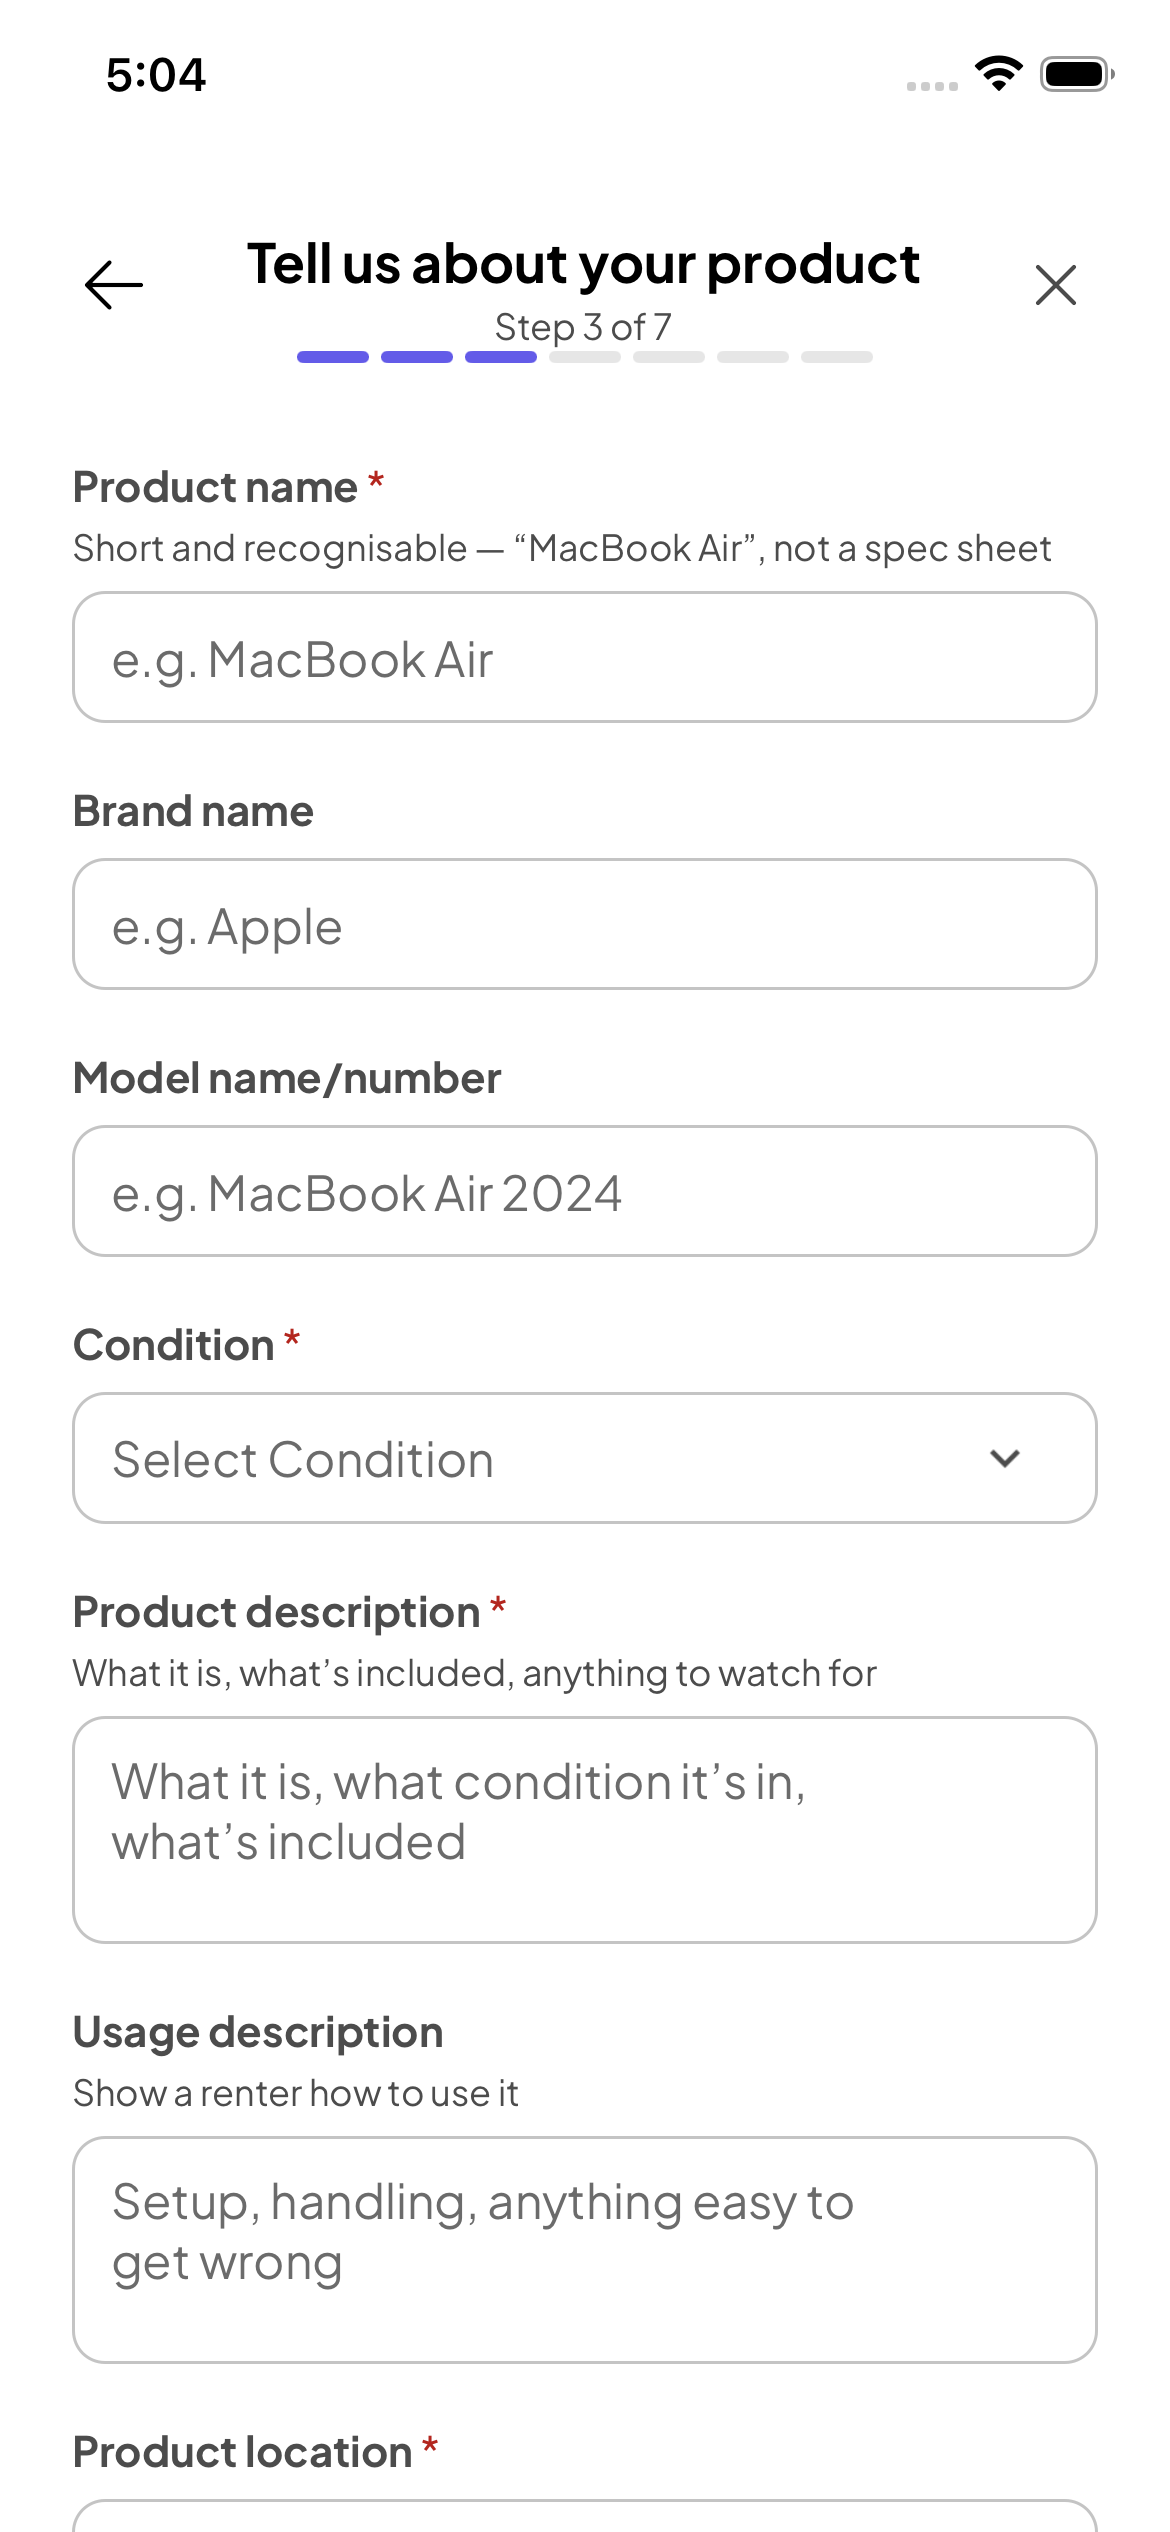
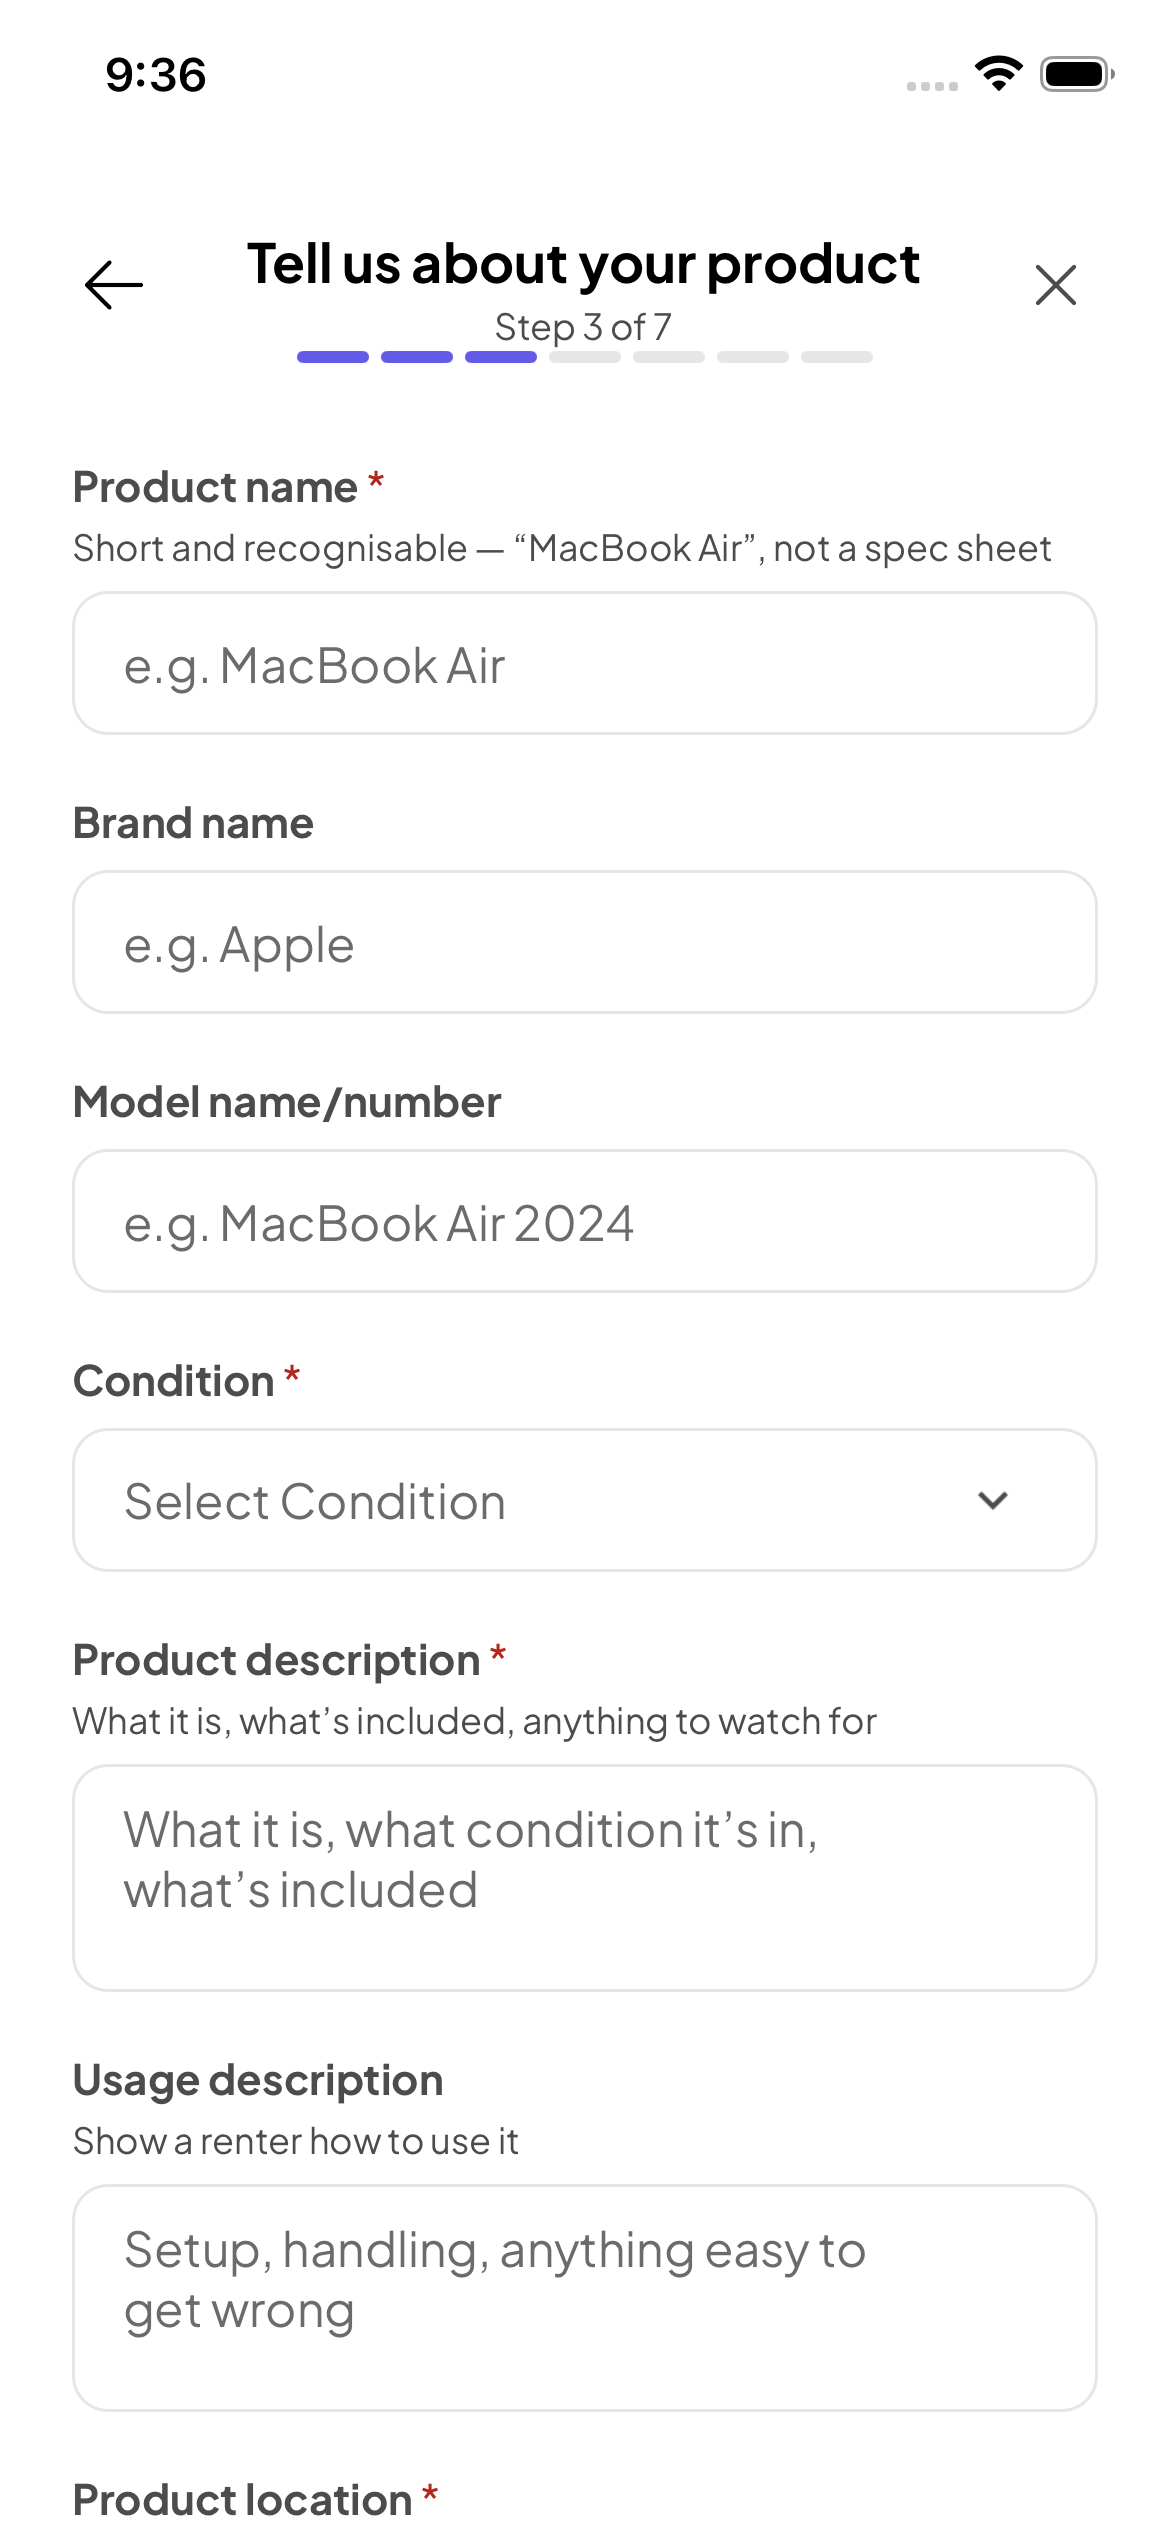
fix(ui): match Post form fields, success toast and the button radius to Figma (light+dark)

diff --git a/src/components/core/field.tsx b/src/components/core/field.tsx
@@ -1,6 +1,6 @@
 import { MIN_TOUCH_TARGET, density, radius } from "@/lib/design-tokens";
 import { useTheme } from "@/lib/theme";
-import React, { useState } from "react";
+import React, { createContext, useContext, useState } from "react";
 import {
   StyleProp,
   TextInput,
@@ -9,6 +9,8 @@ import {
   ViewStyle,
 } from "react-native";
 import { Text } from "./text";
+
+const FRAME_FIELD_HEIGHT = 48;
 
 export function RequiredMark() {
   const { color } = useTheme();
@@ -66,11 +68,30 @@ export function FieldError({ children }: FieldErrorProps) {
   );
 }
 
+const FieldFrameContext = createContext(false);
+
+/**
+ * Opt-in. Fields inside are drawn as the Figma Post form draws them: 48pt tall,
+ * padded 16, radius 12 and the hairline edge rather than the stronger control
+ * edge. Everything outside keeps the default box, so no other screen moves. The
+ * hairline is a deliberate step below the 3:1 control-edge rule the default box
+ * keeps (WCAG 1.4.11); the frame's ruling was accepted for this form only.
+ */
+export function FieldFrame({ children }: { children: React.ReactNode }) {
+  return (
+    <FieldFrameContext.Provider value={true}>
+      {children}
+    </FieldFrameContext.Provider>
+  );
+}
+
 interface FieldSurfaceOptions {
   focused?: boolean;
   error?: boolean;
   disabled?: boolean;
   multiline?: boolean;
+  /** Override the `FieldFrame` context: for a caller that renders it. */
+  frame?: boolean;
 }
 
 /**
@@ -91,14 +112,17 @@ export function useFieldSurfaceStyle({
   error = false,
   disabled = false,
   multiline = false,
+  frame,
 }: FieldSurfaceOptions = {}): ViewStyle {
   const { color } = useTheme();
+  const inFrame = useContext(FieldFrameContext);
+  const framed = frame ?? inFrame;
 
   return {
-    minHeight: multiline ? 76 : MIN_TOUCH_TARGET,
-    paddingHorizontal: 12,
+    minHeight: multiline ? 76 : framed ? FRAME_FIELD_HEIGHT : MIN_TOUCH_TARGET,
+    paddingHorizontal: framed ? 16 : 12,
     paddingVertical: multiline ? 10 : 8,
-    borderRadius: radius.input,
+    borderRadius: framed ? radius.button : radius.input,
     borderWidth: 1,
     // Control borders use input-line, not the hairline token: a 1.13:1 border
     // fails WCAG 1.4.11 and reads as no border at all. Error outranks focus —
@@ -107,6 +131,8 @@ export function useFieldSurfaceStyle({
       ? color.danger
       : focused
       ? color.focus
+      : framed
+      ? color.line
       : color.inputLine,
     backgroundColor: color.surface,
     opacity: disabled ? 0.5 : 1,

diff --git a/src/components/core/toast.tsx b/src/components/core/toast.tsx
@@ -1,12 +1,13 @@
-import { radius } from "@/lib/design-tokens";
+import { SCREEN_GUTTER, radius } from "@/lib/design-tokens";
 import { useTheme } from "@/lib/theme";
 import React from "react";
-import { View } from "react-native";
+import { View, useWindowDimensions } from "react-native";
 import {
   CheckCircleIcon,
   ExclamationTriangleIcon,
   InformationCircleIcon,
   XCircleIcon,
+  CheckIcon,
 } from "react-native-heroicons/solid";
 import { Text } from "./text";
 
@@ -42,9 +43,51 @@ interface ToastBodyProps {
  */
 export function ToastBody({ text1, text2, props }: ToastBodyProps) {
   const { color, shadow } = useTheme();
+  const { width: screenWidth } = useWindowDimensions();
   const legacy = splitLegacyToastProps(text2);
   const severity = props?.severity ?? legacy.severity;
   const message = legacy.message;
+
+  // The Figma success toast: a brand-tint pill on the 24 gutter with a brand
+  // check tile. Only success takes it — the other severities keep the semantic
+  // palette below until the designer ships one for them.
+  if (severity === "success" && !message) {
+    return (
+      <View
+        accessible
+        accessibilityRole="alert"
+        accessibilityLiveRegion="polite"
+        accessibilityLabel={text1}
+        style={{
+          flexDirection: "row",
+          alignItems: "center",
+          gap: 8,
+          width: screenWidth - 2 * SCREEN_GUTTER,
+          padding: 8,
+          borderRadius: radius.card,
+          borderWidth: 1,
+          borderColor: color.brandPanelLine,
+          backgroundColor: color.brandPanel,
+        }}
+      >
+        <View
+          style={{
+            width: 36,
+            height: 36,
+            borderRadius: 8,
+            alignItems: "center",
+            justifyContent: "center",
+            backgroundColor: color.brand,
+          }}
+        >
+          <CheckIcon size={24} color={color.onBrand} />
+        </View>
+        <Text fontSize="text-md" fontWeight="font-bold" style={{ flex: 1 }}>
+          {text1}
+        </Text>
+      </View>
+    );
+  }
 
   const palette: Record<
     ToastSeverity,

diff --git a/src/components/post/about-product-form.tsx b/src/components/post/about-product-form.tsx
@@ -1,5 +1,6 @@
 import {
   Button,
+  FieldFrame,
   FieldLabel,
   FieldShell,
   Text,
@@ -230,7 +231,11 @@ export function AboutProductForm({
     callingCode: string;
   }>({ cca2: "IN", callingCode: "91" });
 
-  const conditionSurface = useFieldSurfaceStyle({ focused: conditionFocus });
+  const conditionSurface = useFieldSurfaceStyle({
+    focused: conditionFocus,
+    // This component renders the FieldFrame, so it cannot read it.
+    frame: true,
+  });
   const currencyIcon = CURRENCY_ICON[productCountry];
 
   /**
@@ -443,6 +448,7 @@ export function AboutProductForm({
   ) : null;
 
   return (
+    <FieldFrame>
     <KeyboardAwareScrollView
       keyboardShouldPersistTaps="handled"
       showsVerticalScrollIndicator={false}
@@ -488,7 +494,7 @@ export function AboutProductForm({
         <RNEDropdown
           onFocus={() => setConditionFocus(true)}
           onBlur={() => setConditionFocus(false)}
-          style={{ ...conditionSurface, height: MIN_TOUCH_TARGET }}
+          style={{ ...conditionSurface, height: conditionSurface.minHeight }}
           activeColor={color.surfaceRaised}
           containerStyle={{
             marginTop: space.sm,
@@ -803,5 +809,6 @@ export function AboutProductForm({
         {submitAccessory?.(submitLabelColor)}
       </Button>
     </KeyboardAwareScrollView>
+    </FieldFrame>
   );
 }

diff --git a/src/screens/profileScreens/who-we-are.tsx b/src/screens/profileScreens/who-we-are.tsx
@@ -1,6 +1,6 @@
 import { SubpageHeader, Text } from "@/components/core";
 import { NonScrollableContainer } from "@/components/core/non-scrollable-container";
-import { MIN_TOUCH_TARGET, SCREEN_GUTTER, density } from "@/lib/design-tokens";
+import { MIN_TOUCH_TARGET, SCREEN_GUTTER, density, radius } from "@/lib/design-tokens";
 import { useTheme } from "@/lib/theme";
 import { useTypedNavigation } from "@/lib/types";
 import React from "react";
@@ -17,8 +17,6 @@ const TOP_INSET = 28;
 const BLOCK_GAP = 16;
 const HEADING_GAP = 8;
 const GLYPH = 24;
-// The design draws the button at radius 12; `radius.button` is 11.
-const BUTTON_RADIUS = 12;
 
 const WhoWeAreScreen: React.FC = () => {
   const { color, shadow } = useTheme();
@@ -75,7 +73,7 @@ const WhoWeAreScreen: React.FC = () => {
                 alignItems: "center",
                 justifyContent: "center",
                 gap: 4,
-                borderRadius: BUTTON_RADIUS,
+                borderRadius: radius.button,
                 borderWidth: 1,
                 borderColor: color.line,
                 backgroundColor: color.surface,

diff --git a/src/screens/profileScreens/contactUs.tsx b/src/screens/profileScreens/contactUs.tsx
@@ -1,6 +1,6 @@
 import { SubpageHeader, Text } from "@/components/core";
 import { NonScrollableContainer } from "@/components/core/non-scrollable-container";
-import { MIN_TOUCH_TARGET, SCREEN_GUTTER, density } from "@/lib/design-tokens";
+import { MIN_TOUCH_TARGET, SCREEN_GUTTER, density, radius } from "@/lib/design-tokens";
 import { useTheme } from "@/lib/theme";
 import { useTypedNavigation } from "@/lib/types";
 import React from "react";
@@ -18,8 +18,6 @@ const BLOCK_PAD_V = 32;
 const BLOCK_GAP = 16;
 const HEADING_GAP = 8;
 const GLYPH = 24;
-// The design draws these buttons at radius 12; `radius.button` is 11.
-const BUTTON_RADIUS = 12;
 
 /** A block: an icon and heading, then one full-width outline button. */
 function ContactBlock({
@@ -71,7 +69,7 @@ function ContactBlock({
             alignItems: "center",
             justifyContent: "center",
             gap: 4,
-            borderRadius: BUTTON_RADIUS,
+            borderRadius: radius.button,
             borderWidth: 1,
             borderColor: color.line,
             backgroundColor: color.surface,

diff --git a/src/screens/products/products-screen.tsx b/src/screens/products/products-screen.tsx
@@ -34,7 +34,7 @@ import {
   useTypedNavigation,
 } from "@/lib/types";
 import { useFocusEffect, useRoute } from "@react-navigation/native";
-import { MIN_TOUCH_TARGET, SCREEN_GUTTER } from "@/lib/design-tokens";
+import { MIN_TOUCH_TARGET, SCREEN_GUTTER, radius } from "@/lib/design-tokens";
 import { CategoryIcon } from "@/lib/category-icons";
 import { useDistanceTo } from "@/lib/distance";
 import { formatCurrency } from "@/lib/format";
@@ -100,12 +100,7 @@ const TITLE_GAP = 12;
  */
 const GLYPH_SIZE = 20;
 
-/**
- * The bottom bar's button. The design draws a 12pt radius here where
- * `radius.button` is 11; the design system is being re-measured this phase, so
- * the frame wins locally rather than by moving a token every screen shares.
- */
-const CTA_RADIUS = 12;
+const CTA_RADIUS = radius.button;
 
 /**
  * 44 tall at rest, so the bar measures the frame's 76. A floor, not a fixed

diff --git a/src/components/core/accordion.tsx b/src/components/core/accordion.tsx
@@ -1,3 +1,4 @@
+import { radius } from "@/lib/design-tokens";
 import { useTheme } from "@/lib/theme";
 import React, { useState } from "react";
 import {
@@ -21,8 +22,6 @@ interface AccordionProps {
   answer: string;
 }
 
-// The frame draws the question row at radius 12 where `radius.button` is 11.
-const FRAME_RADIUS = 12;
 // The frame's plus is heroicons' mini glyph (14.4pt) in a 24pt box.
 const GLYPH = 24;
 
@@ -61,7 +60,7 @@ const Accordion: React.FC<AccordionProps> = ({ question, answer }) => {
         {
           // The frame draws these cards at radius 12 with a hairline and no
           // shadow, 8 apart (the list owns the gap, so there is no margin here).
-          borderRadius: FRAME_RADIUS,
+          borderRadius: radius.button,
           borderWidth: 1,
           backgroundColor: color.surface,
           borderColor: color.line,

diff --git a/src/screens/users/users-screen.tsx b/src/screens/users/users-screen.tsx
@@ -104,13 +104,10 @@ const RAIL_GAP = 16;
 
 /**
  * The frame's block action. 56 tall as a floor rather than a height, so the
- * label can still grow it at accessibility text sizes, and a 12pt radius where
- * `radius.button` is 11 — the design system is being re-measured this phase, so
- * the frame wins locally rather than by moving a token every screen shares.
- * (Product Details' bottom-bar CTA carries the same local 12.)
+ * label can still grow it at accessibility text sizes; it takes the button radius.
  */
 const BUTTON_HEIGHT = 56;
-const BUTTON_RADIUS = 12;
+const BUTTON_RADIUS = radius.button;
 
 /**
  * The header, drawn twice: once in the scroll as the frame has it, once pinned

diff --git a/src/screens/products/reviews-screen.tsx b/src/screens/products/reviews-screen.tsx
@@ -43,12 +43,7 @@ const LABEL_GAP = 8;
 const BAR_INSET = 12;
 /** The count column the frame right of each bar; left-aligned, not ragged. */
 const COUNT_WIDTH = 30;
-/**
- * The frame draws the write row at radius 12, where `radius.button` is 11 and
- * `radius.group` is 14. Kept local until one ruling moves the token (see
- * design/audit.md); the same 12 is in contactUs.tsx and faqs.tsx.
- */
-const ROW_RADIUS = 12;
+const ROW_RADIUS = radius.button;
 /** The row's label sits on 16; its chevron measures ~13 from the edge. */
 const ROW_PAD_LEFT = 16;
 const ROW_PAD_RIGHT = 12;

diff --git a/src/screens/products/write-review.tsx b/src/screens/products/write-review.tsx
@@ -52,12 +52,9 @@ const CONTROL_PAD_H = 16;
 const CONTROL_PAD_V = 8;
 const CONTROL_GAP = 8;
 const GLYPH = 20;
-/**
- * The frame draws the thumbnail, the condition control and the star rows at
- * radius 12, where `radius.button` is 11 and `radius.group` is 14. Kept local
- * until one ruling moves the token (see design/audit.md).
- */
-const CONTROL_RADIUS = 12;
+// The frame draws the thumbnail, the condition control and the star rows at the
+// button radius.
+const CONTROL_RADIUS = radius.button;
 
 type ConditionOption = {
   label: string;

diff --git a/src/lib/design-tokens.ts b/src/lib/design-tokens.ts
@@ -263,7 +263,7 @@ export const space = {
  * `full` is for pills and avatars only — never a card.
  */
 export const radius = {
-  button: 11, // measured off the Figma Button component (Primary, 358x44)
+  button: 12, // the Figma Button component's cornerRadius (Primary/Secondary/Disabled)
   input: 11,
   card: 16,
   group: 14,

diff --git a/tailwind.config.js b/tailwind.config.js
@@ -112,7 +112,7 @@ module.exports = {
         touch: "44px",
       },
       borderRadius: {
-        button: "11px",
+        button: "12px",
         input: "11px",
         card: "16px",
         group: "14px",
